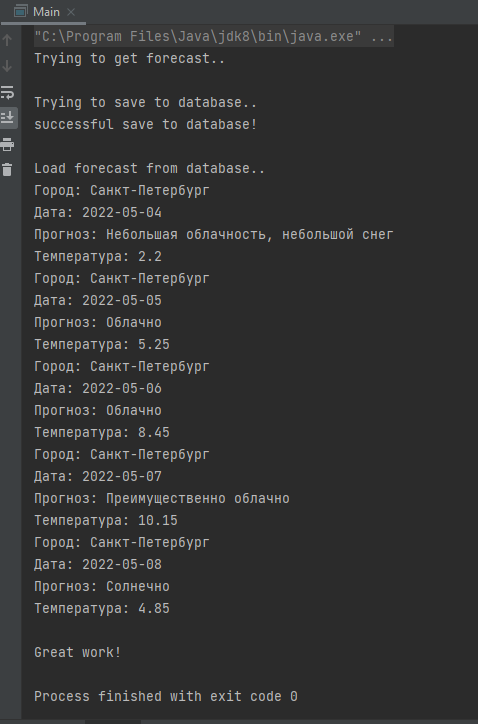
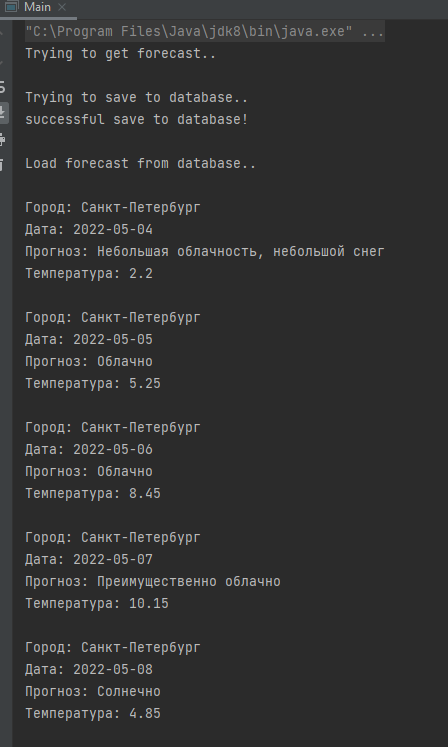
hw8

diff --git a/Database.java b/Database.java
@@ -10,6 +10,7 @@ public class Database<connection> {
     private static final String DB_PASSWORD = "postgres";
     private String insertWeather = "insert into forecast (city, date, forecast, temperature) values (?, ?, ?, ?)";
     private String getWeather = "select * from forecast";
+    private String cleanDatabase = "delete from forecast";
 
     static {
         try {
@@ -43,17 +44,25 @@ public class Database<connection> {
             ResultSet resultSet = statement.executeQuery(getWeather);
             while (resultSet.next()) {
 
-                System.out.println("Город: " + resultSet.getString("city"));
+                System.out.println("\nГород: " + resultSet.getString("city"));
                 System.out.println("Дата: " + resultSet.getString("date"));
                 System.out.println("Прогноз: " + resultSet.getString("forecast"));
                 System.out.println("Температура: " + resultSet.getDouble("temperature"));
             }
-        } catch (SQLException throwables) {
-            throwables.printStackTrace();
+        } catch (SQLException e) {
+            e.printStackTrace();
         }
     }
 
     public void cleanDB() {
+        try (Connection connection = DriverManager.getConnection(DATABASE_URL, DB_LOGIN, DB_PASSWORD)) {
+            Statement statement = connection.createStatement();
+            statement.executeUpdate(cleanDatabase);
+            }
+        catch (SQLException e) {
+            e.printStackTrace();
+        }
+        System.out.println("Forecast was cleaned!");
     }
 }
 

diff --git a/Main.java b/Main.java
@@ -113,5 +113,7 @@ public class Main {
         System.out.println("\nLoad forecast from database..");
         database.getForecastFromDB();
         System.out.println("\nGreat work!");
+
+        database.cleanDB();
     }
 }
